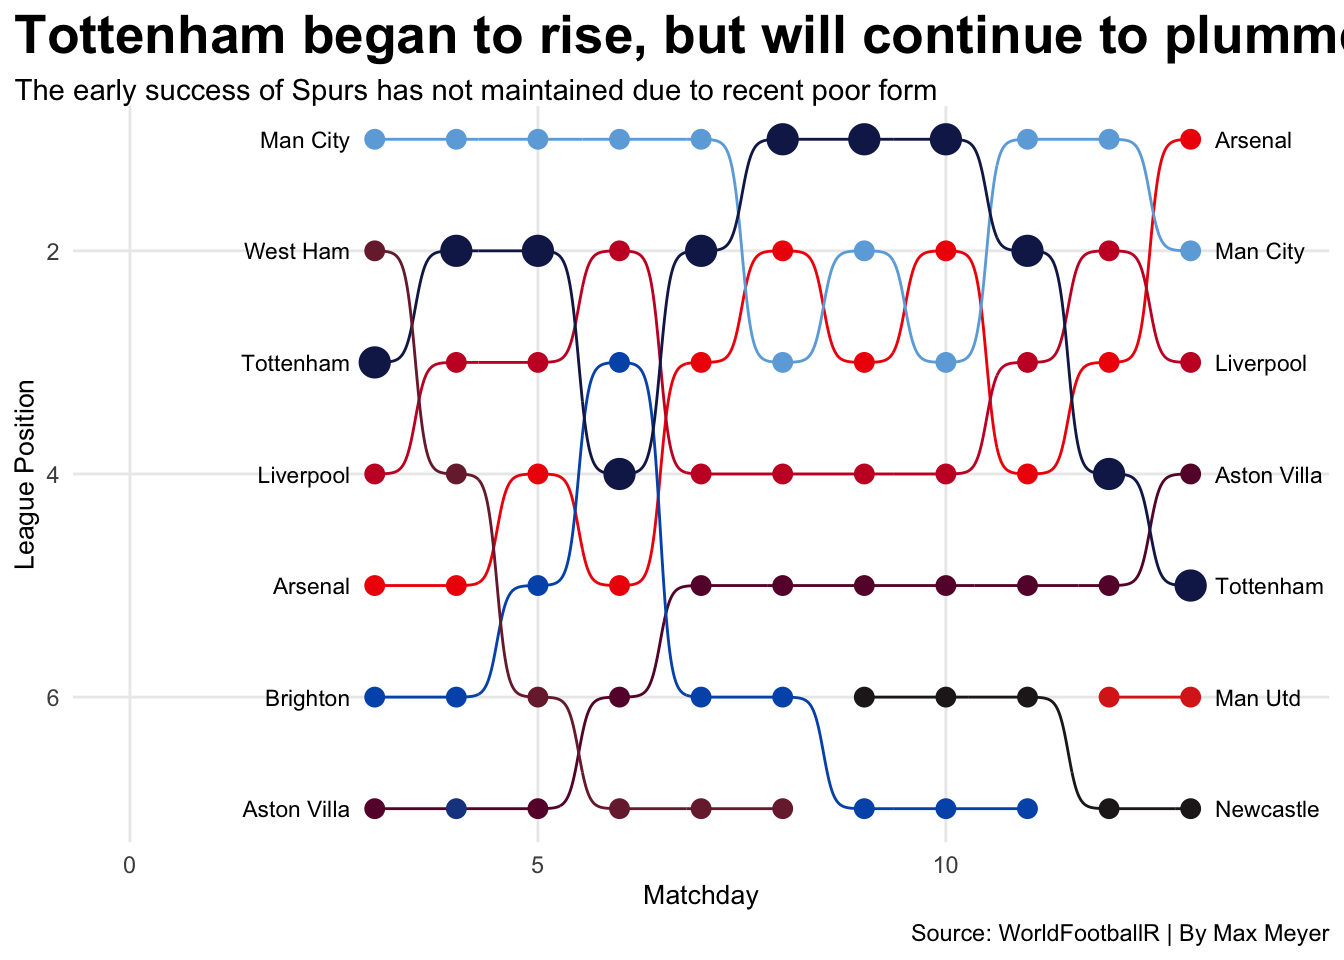
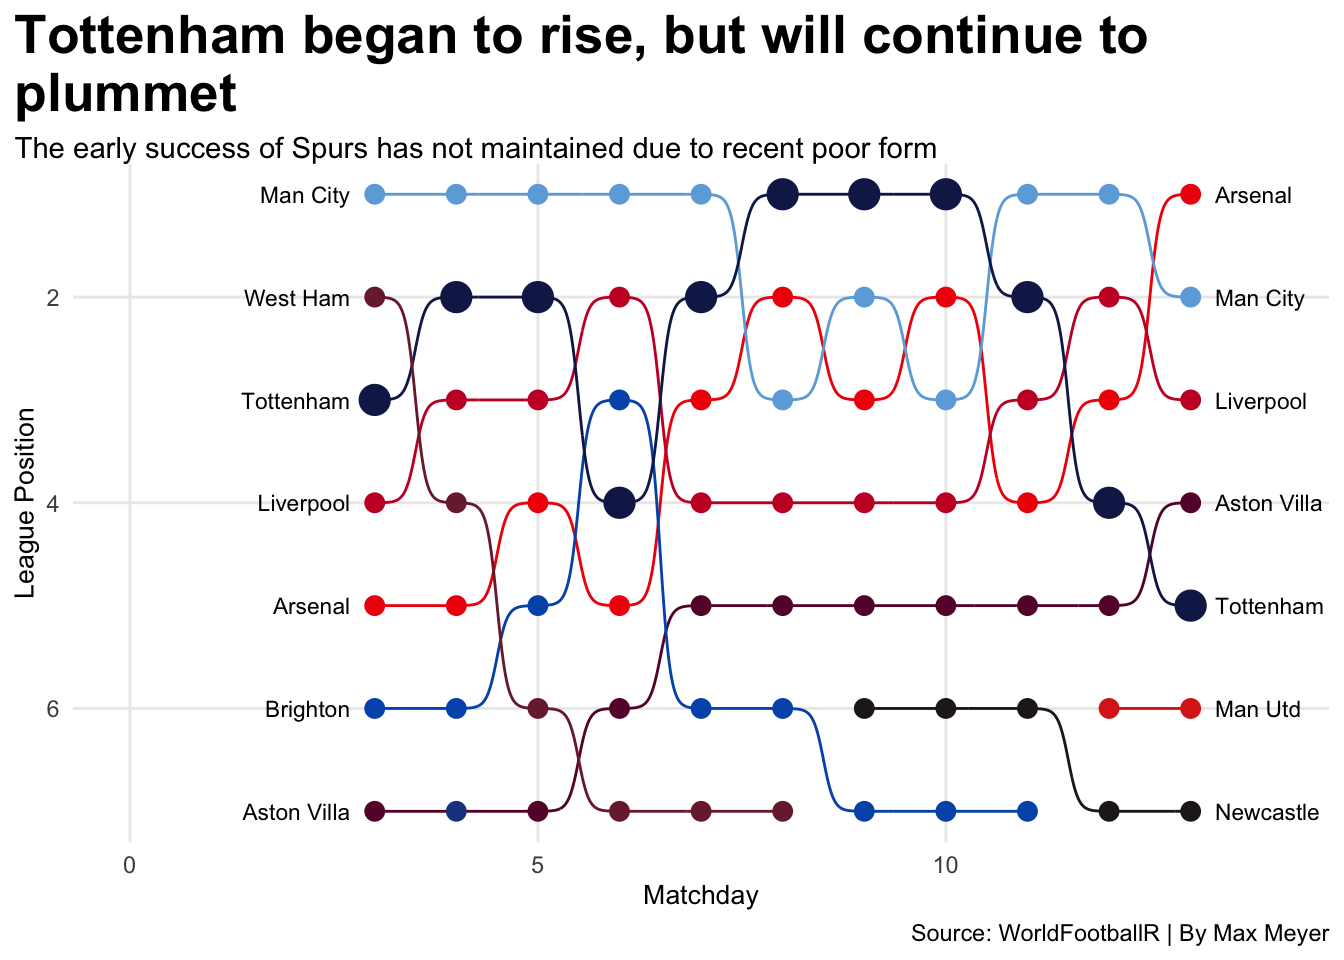
hi

diff --git a/posts/why-tottenham-will-not-win-the-premier-league-this-season/index.html b/posts/why-tottenham-will-not-win-the-premier-league-this-season/index.html
@@ -136,7 +136,7 @@ pre > code.sourceCode > span > a:first-child::before { text-decoration: underlin
 <header id="title-block-header" class="quarto-title-block default page-columns page-full">
   <div class="quarto-title-banner page-columns page-full">
     <div class="quarto-title column-body">
-      <h1 class="title">Why Tottenham will not with the Premier League this season</h1>
+      <h1 class="title">Why Tottenham will not win the Premier League this season</h1>
                                 <div class="quarto-categories">
                 <div class="quarto-category">spurs</div>
                 <div class="quarto-category">soccer</div>
@@ -178,7 +178,7 @@ pre > code.sourceCode > span > a:first-child::before { text-decoration: underlin
 
 <p>Since the change of name to the Premier League, seven teams have gone on to win the trophy. One of the teams that has come close on multiple occasions but has yet to claim the title is Tottenham Hotspur, also known as Spurs. With prolific players like Harry Kane and Ledley King that have played for the club in the past, it is surprising to see that this club has never won the title.</p>
 <p>With one of their best starts to a season to date, Spurs think that they are poised to make a run for the title this season. With a new manager, Ange Postecoglou, and a new looking attack, Spurs feel that this is their time.</p>
-<p>However, in this era of the Premier League, the top teams are hard to beat. Manchester City is coming off of a treble winning season, Arsenal want revenge after a close second place finish last season, and new-money Newcastle are looking to shock them all with their squad. As a result, I do not think that Spurs will be winning the title this season.</p>
+<p>However, in this era of the Premier League, the top teams are hard to beat. Manchester City is coming off of a treble winning season, Arsenal want revenge after a close second place finish last season, and new-money Newcastle are looking to shock them all with their squad. As a result, Spurs will be winning the title this season.</p>
 <div class="cell">
 <details>
 <summary>Code</summary>
@@ -221,7 +221,7 @@ pre > code.sourceCode > span > a:first-child::before { text-decoration: underlin
 <span id="cb1-37"><a href="#cb1-37" aria-hidden="true" tabindex="-1"></a>  <span class="fu">scale_color_manual</span>(<span class="at">values =</span> <span class="fu">c</span>(<span class="st">"#EF0107"</span>, <span class="st">"#670E36"</span>, <span class="st">"#0057B8"</span>, <span class="st">"#1B458F"</span>, <span class="st">"#C8102E"</span>, <span class="st">"#6CABDD"</span>, <span class="st">"#DA291C"</span>, <span class="st">"#241F20"</span>, <span class="st">"#132257"</span>, <span class="st">"#7A263A"</span> )) <span class="sc">+</span></span>
 <span id="cb1-38"><a href="#cb1-38" aria-hidden="true" tabindex="-1"></a>  <span class="fu">theme_minimal</span>() <span class="sc">+</span></span>
 <span id="cb1-39"><a href="#cb1-39" aria-hidden="true" tabindex="-1"></a>  <span class="fu">labs</span>(</span>
-<span id="cb1-40"><a href="#cb1-40" aria-hidden="true" tabindex="-1"></a>    <span class="at">title=</span><span class="st">"Tottenham began to rise, but will continue to plummet"</span>, </span>
+<span id="cb1-40"><a href="#cb1-40" aria-hidden="true" tabindex="-1"></a>    <span class="at">title=</span><span class="st">"Tottenham began to rise, but will continue to </span><span class="sc">\n</span><span class="st">plummet"</span>, </span>
 <span id="cb1-41"><a href="#cb1-41" aria-hidden="true" tabindex="-1"></a>    <span class="at">subtitle =</span> <span class="st">"The early success of Spurs has not maintained due to recent poor form"</span> ,</span>
 <span id="cb1-42"><a href="#cb1-42" aria-hidden="true" tabindex="-1"></a>    <span class="at">x=</span><span class="st">"Matchday"</span>, </span>
 <span id="cb1-43"><a href="#cb1-43" aria-hidden="true" tabindex="-1"></a>    <span class="at">y=</span><span class="st">"League Position"</span>, </span>
@@ -241,7 +241,7 @@ pre > code.sourceCode > span > a:first-child::before { text-decoration: underlin
 </div>
 </div>
 <p>After not winning a match in November, Spurs are in a huge time of the season. After a 4-1 loss to Chelsea, an improbable 2-1 loss in added time to Wolverhampton, and a home 2-1 defeat against Aston Villa, Spurs are in need of a bounce back. However, they do play the reigning champions Manchester City this weekend, a match that in the last thirty tries, Tottenham have won ten, drew three, and lost seventeen times.</p>
-<p>With the hot start that Tottenham had, let us look back on their hot start in comparison to the rest of the Premier League. Most of the league, as show by the charts below, started with rather zero or a positive number of points. Everton, however, were given a punishment of negative points due to financial issues. The average number of points a team has at this point in the season is 17.7,with is displayed in each chart with the blue line. Every squad is used with the solid black line, except for the mighty Tottenham Hotspurs, which are showcased with the red line.</p>
+<p>With the hot start that Tottenham had, let us look back on their hot start in comparison to the rest of the Premier League. Most of the league, as show by the charts below, started with rather zero or a positive number of points. Everton, however, were given a punishment of negative points due to financial issues. The average number of points a team has at this point in the season is 17.7.</p>
 <div class="cell">
 <details>
 <summary>Code</summary>
@@ -252,7 +252,7 @@ pre > code.sourceCode > span > a:first-child::before { text-decoration: underlin
 <span id="cb2-5"><a href="#cb2-5" aria-hidden="true" tabindex="-1"></a>  <span class="fu">facet_wrap</span>(<span class="st">"~squad"</span>) <span class="sc">+</span></span>
 <span id="cb2-6"><a href="#cb2-6" aria-hidden="true" tabindex="-1"></a>  <span class="fu">theme_minimal</span>() <span class="sc">+</span></span>
 <span id="cb2-7"><a href="#cb2-7" aria-hidden="true" tabindex="-1"></a>  <span class="fu">labs</span>(</span>
-<span id="cb2-8"><a href="#cb2-8" aria-hidden="true" tabindex="-1"></a>    <span class="at">title=</span><span class="st">"After rising above the curve, Spurs stop dead in their tracks"</span>, </span>
+<span id="cb2-8"><a href="#cb2-8" aria-hidden="true" tabindex="-1"></a>    <span class="at">title=</span><span class="st">"After rising above the curve, Spurs stop dead in their </span><span class="sc">\n</span><span class="st">tracks"</span>, </span>
 <span id="cb2-9"><a href="#cb2-9" aria-hidden="true" tabindex="-1"></a>    <span class="at">subtitle =</span> <span class="st">"Since the hot start, Tottenham has since slowed their pace in the last three matchdays"</span> ,</span>
 <span id="cb2-10"><a href="#cb2-10" aria-hidden="true" tabindex="-1"></a>    <span class="at">x=</span><span class="st">"Matchday"</span>, </span>
 <span id="cb2-11"><a href="#cb2-11" aria-hidden="true" tabindex="-1"></a>    <span class="at">y=</span><span class="st">"Points"</span>, </span>
@@ -260,8 +260,8 @@ pre > code.sourceCode > span > a:first-child::before { text-decoration: underlin
 <span id="cb2-13"><a href="#cb2-13" aria-hidden="true" tabindex="-1"></a>  ) <span class="sc">+</span> </span>
 <span id="cb2-14"><a href="#cb2-14" aria-hidden="true" tabindex="-1"></a>  <span class="fu">theme</span>(</span>
 <span id="cb2-15"><a href="#cb2-15" aria-hidden="true" tabindex="-1"></a>    <span class="at">plot.subtitle =</span> <span class="fu">element_textbox_simple</span>(),</span>
-<span id="cb2-16"><a href="#cb2-16" aria-hidden="true" tabindex="-1"></a>    <span class="at">plot.title =</span> <span class="fu">element_text</span>(<span class="at">size =</span> <span class="dv">18</span>, <span class="at">face =</span> <span class="st">"bold"</span>),</span>
-<span id="cb2-17"><a href="#cb2-17" aria-hidden="true" tabindex="-1"></a>    <span class="at">axis.title =</span> <span class="fu">element_text</span>(<span class="at">size =</span> <span class="dv">11</span>), </span>
+<span id="cb2-16"><a href="#cb2-16" aria-hidden="true" tabindex="-1"></a>    <span class="at">plot.title =</span> <span class="fu">element_text</span>(<span class="at">size =</span> <span class="dv">17</span>, <span class="at">face =</span> <span class="st">"bold"</span>),</span>
+<span id="cb2-17"><a href="#cb2-17" aria-hidden="true" tabindex="-1"></a>    <span class="at">axis.title =</span> <span class="fu">element_text</span>(<span class="at">size =</span> <span class="dv">10</span>), </span>
 <span id="cb2-18"><a href="#cb2-18" aria-hidden="true" tabindex="-1"></a>    <span class="at">panel.grid.minor =</span> <span class="fu">element_blank</span>(),</span>
 <span id="cb2-19"><a href="#cb2-19" aria-hidden="true" tabindex="-1"></a>    <span class="at">plot.title.position =</span> <span class="st">"plot"</span>,</span>
 <span id="cb2-20"><a href="#cb2-20" aria-hidden="true" tabindex="-1"></a>    <span class="at">legend.position =</span> <span class="st">"none"</span></span>
@@ -300,7 +300,7 @@ pre > code.sourceCode > span > a:first-child::before { text-decoration: underlin
 <p><img src="index_files/figure-html/unnamed-chunk-3-1.png" class="img-fluid" width="672"></p>
 </div>
 </div>
-<p>The best teams in the Premier League are able to have one of the elite goal differences. The more goals you score, the more games you will win. Same goes with goals against. The less goals you allow, the more games you will win. Tottenham started off the season hot, but have slowed down majorly in recent weeks, which I think will be the reason they do not hoist the trophy at the end of the season.</p>
+<p>The best teams in the Premier League are able to have one of the elite goal differences. The more goals you score, the more games you will win. Same goes with goals against. The less goals you allow, the more games you will win. Tottenham started off the season hot, but have slowed down majorly in recent weeks, which will be the reason they do not hoist the trophy at the end of the season.</p>
 <p>However, they are still doing better than the team in red in Manchester. Which is all that matters. Manchester is and always will be blue. Come on city. Back-to-back trebles incoming.</p>
 
 

diff --git a/index.html b/index.html
@@ -184,7 +184,7 @@ ul.task-list li input[type="checkbox"] {
 <a href="./posts/should-be-same-as-headline/index.html"> </a>
 </div>
 </div>
-<div class="quarto-post image-right" data-index="1" data-categories="spurs,soccer,code" data-listing-date-sort="1701410400000" data-listing-file-modified-sort="1701444751722" data-listing-date-modified-sort="NaN" data-listing-reading-time-sort="6">
+<div class="quarto-post image-right" data-index="1" data-categories="spurs,soccer,code" data-listing-date-sort="1701410400000" data-listing-file-modified-sort="1701446671770" data-listing-date-modified-sort="NaN" data-listing-reading-time-sort="6">
 <div class="thumbnail">
 <p><a href="./posts/why-tottenham-will-not-win-the-premier-league-this-season/index.html"> <img src="./posts/why-tottenham-will-not-win-the-premier-league-this-season/image.png" class="thumbnail-image"> </a></p>
 </div>
